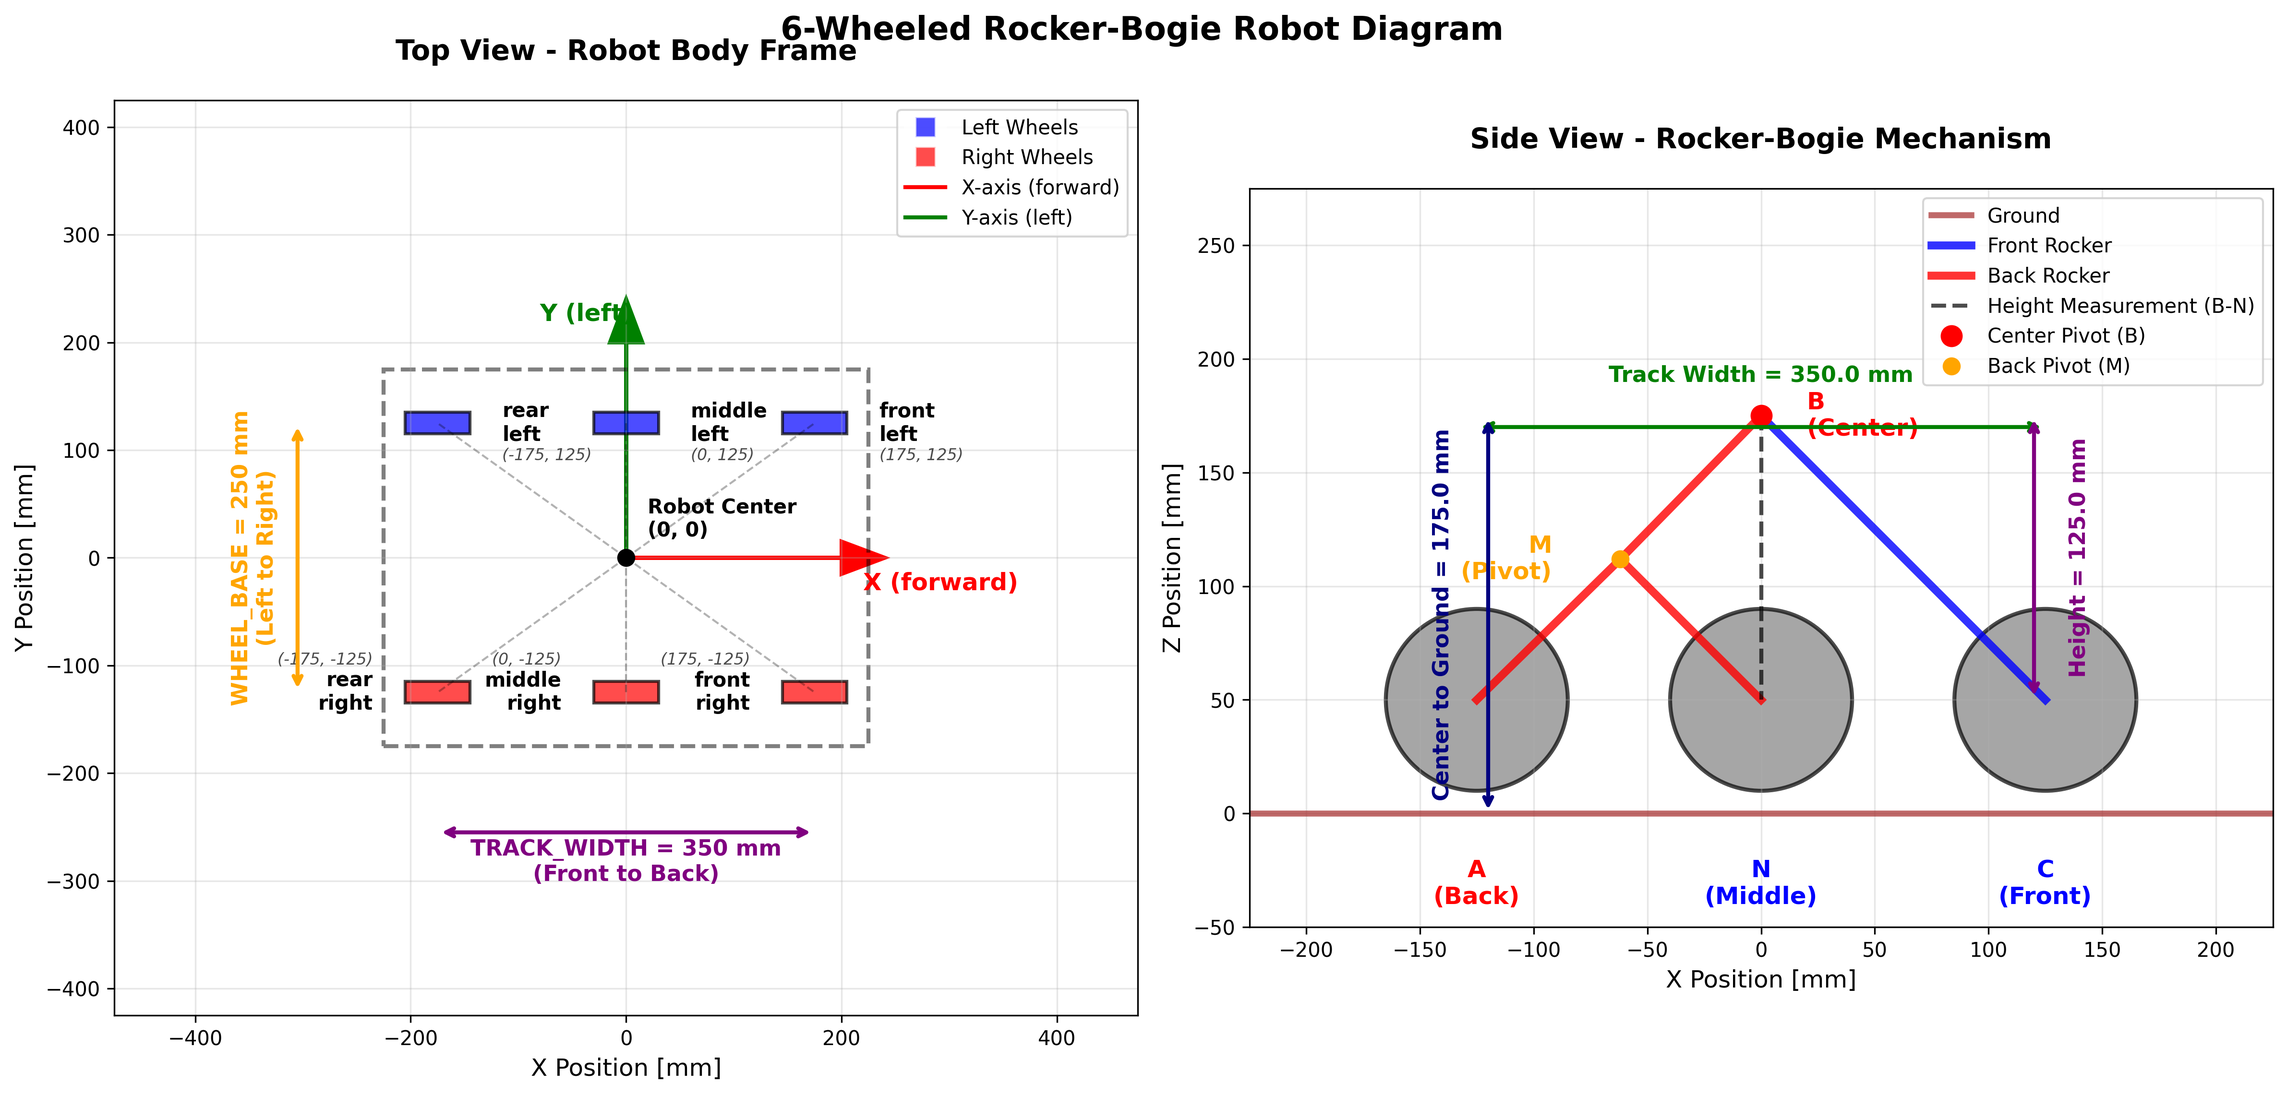
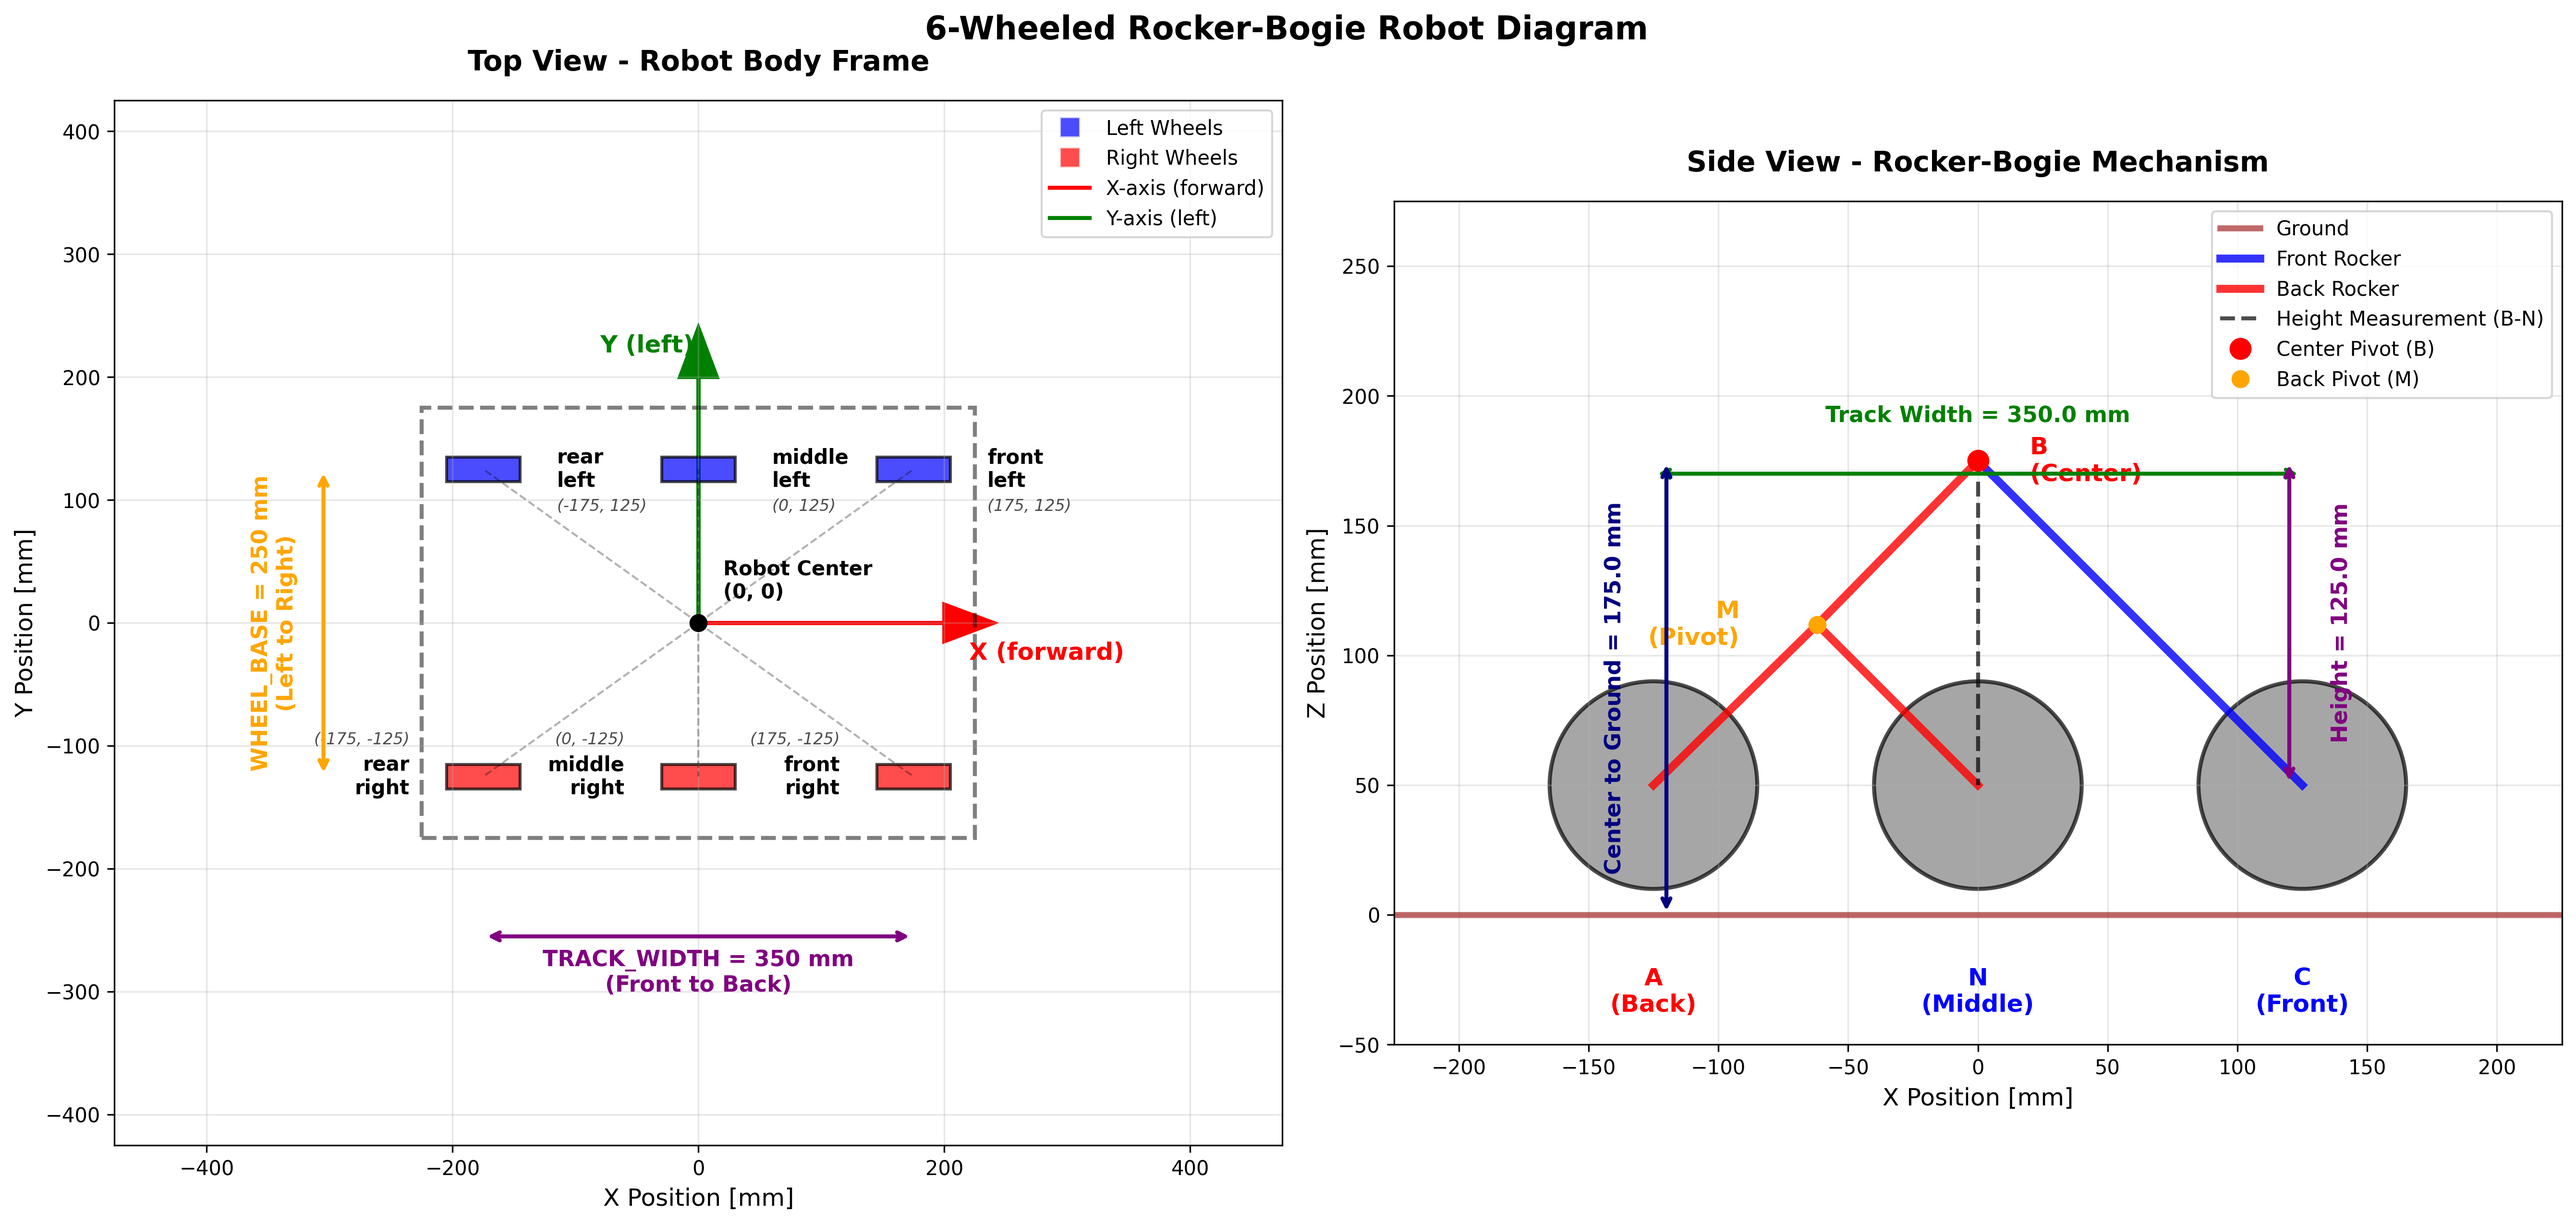
new plots

diff --git a/prototyping/draw_rocker_bogie.py b/prototyping/draw_rocker_bogie.py
@@ -104,7 +104,7 @@ def draw_robot_diagram():
     """
     Draw both top-down view and side view of the 6-wheeled rocker-bogie robot
     """
-    fig, (ax1, ax2) = plt.subplots(1, 2, figsize=(16, 8))
+    fig, (ax1, ax2) = plt.subplots(1, 2, figsize=(18, 9))
 
     # ===== LEFT SUBPLOT: TOP-DOWN VIEW =====
     ax = ax1
@@ -197,7 +197,7 @@ def draw_robot_diagram():
     ax.set_xlabel('X Position [mm]', fontsize=12)
     ax.set_ylabel('Y Position [mm]', fontsize=12)
     ax.set_title('Top View - Robot Body Frame',
-                 fontsize=14, weight='bold', pad=20)
+                 fontsize=14, weight='bold', pad=15)
 
     # Add legend
     legend_elements = [
@@ -318,7 +318,7 @@ def draw_robot_diagram():
     ax.set_xlabel('X Position [mm]', fontsize=12)
     ax.set_ylabel('Z Position [mm]', fontsize=12)
     ax.set_title('Side View - Rocker-Bogie Mechanism',
-                 fontsize=14, weight='bold', pad=20)
+                 fontsize=14, weight='bold', pad=15)
 
     # Add legend
     ax.legend(loc='upper right', fontsize=10)
@@ -417,7 +417,7 @@ def draw_rocker_bogie_at_state(ax, show_text: bool, x, y, theta, vx, vy, omega):
 
 
 if __name__ == "__main__":
-    # draw_robot_diagram()
+    draw_robot_diagram()
 
     # Create a new figure for trajectory visualization
     fig, ax = plt.subplots(figsize=(10, 10))
@@ -433,11 +433,10 @@ if __name__ == "__main__":
     ]
     for pos in test_robot_positions:
         draw_rocker_bogie_at_state(ax, True, *pos)
-        plt.title('Top-Down View of Rocker-Bogie Robot Trajectory')
+        plt.title('Top-Down View of Rocker-Bogie Robot in different states')
         plt.xlabel('X Position [mm]')
         plt.ylabel('Y Position [mm]')
         plt.grid(True)
         plt.gca().set_aspect('equal', adjustable='box')
     plt.savefig(f"top_down_rover.png",
                 dpi=300, bbox_inches='tight')
-    plt.show()
